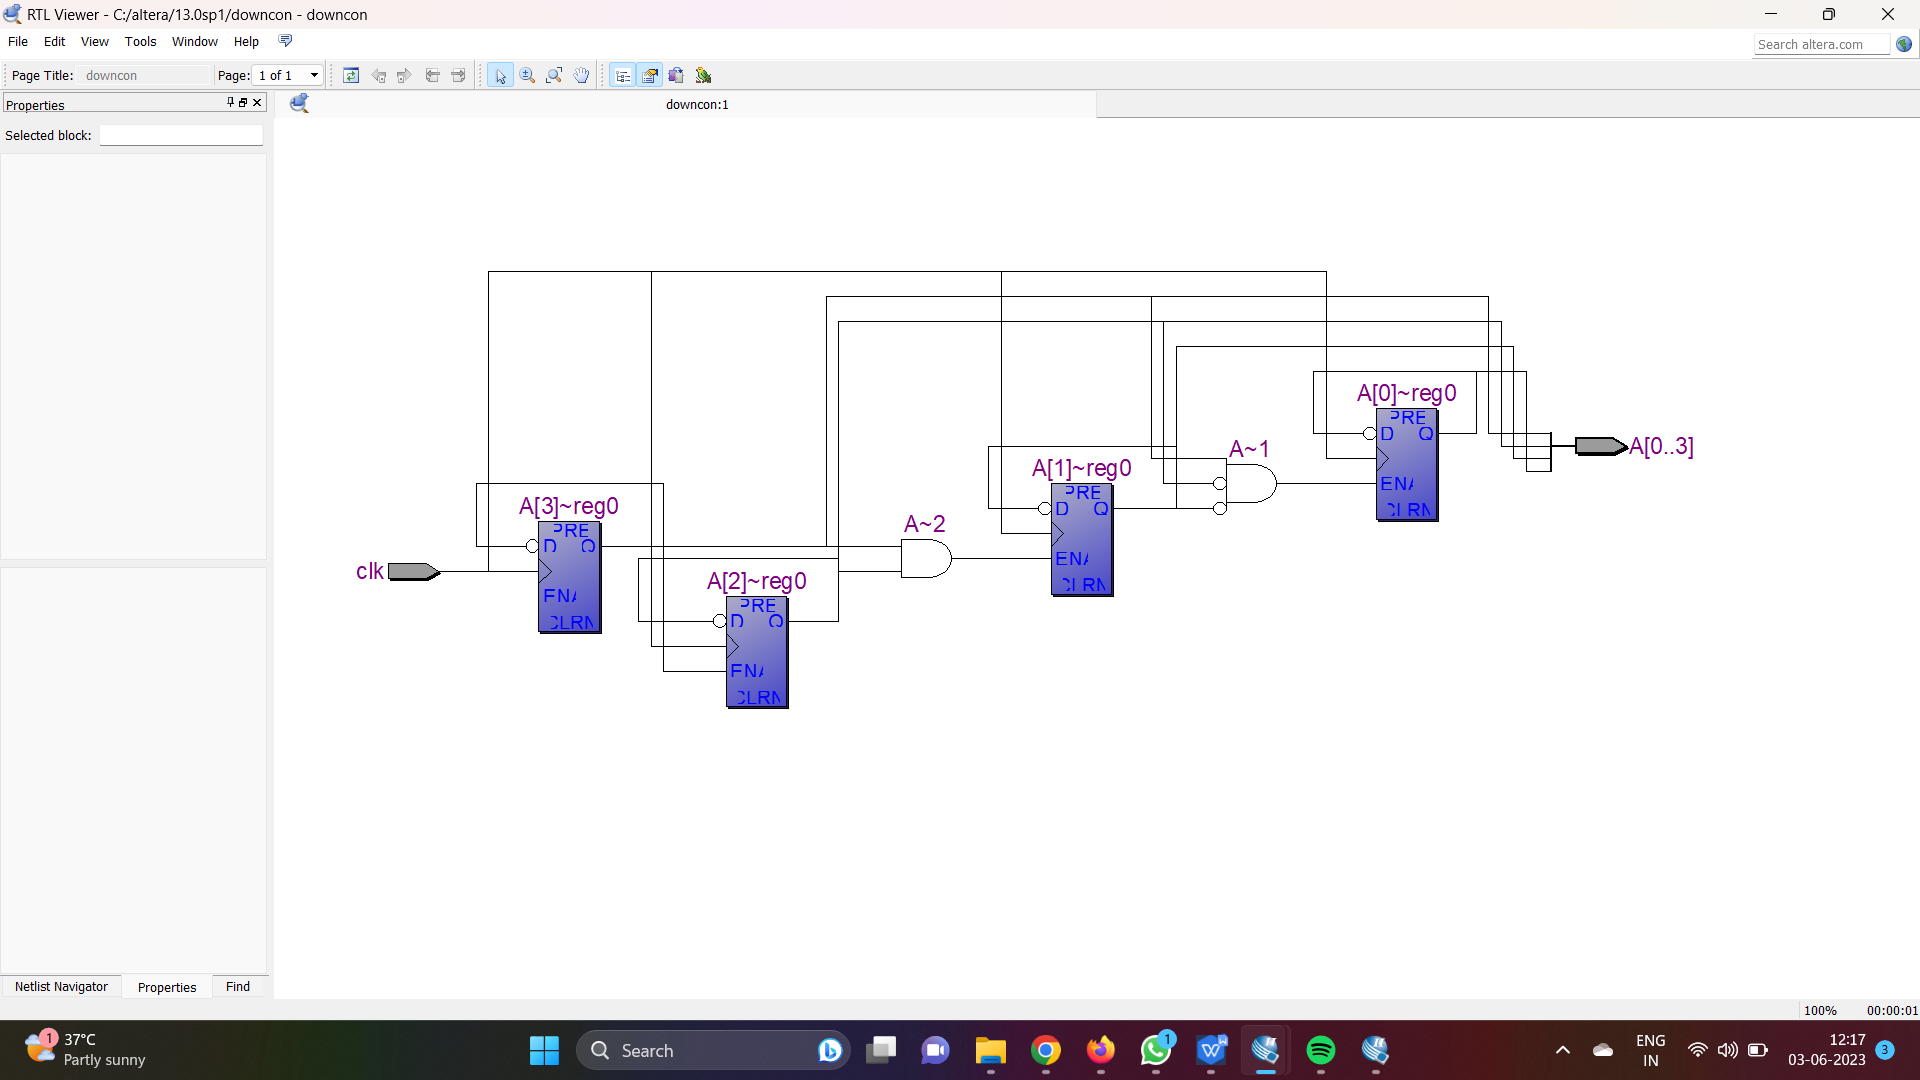
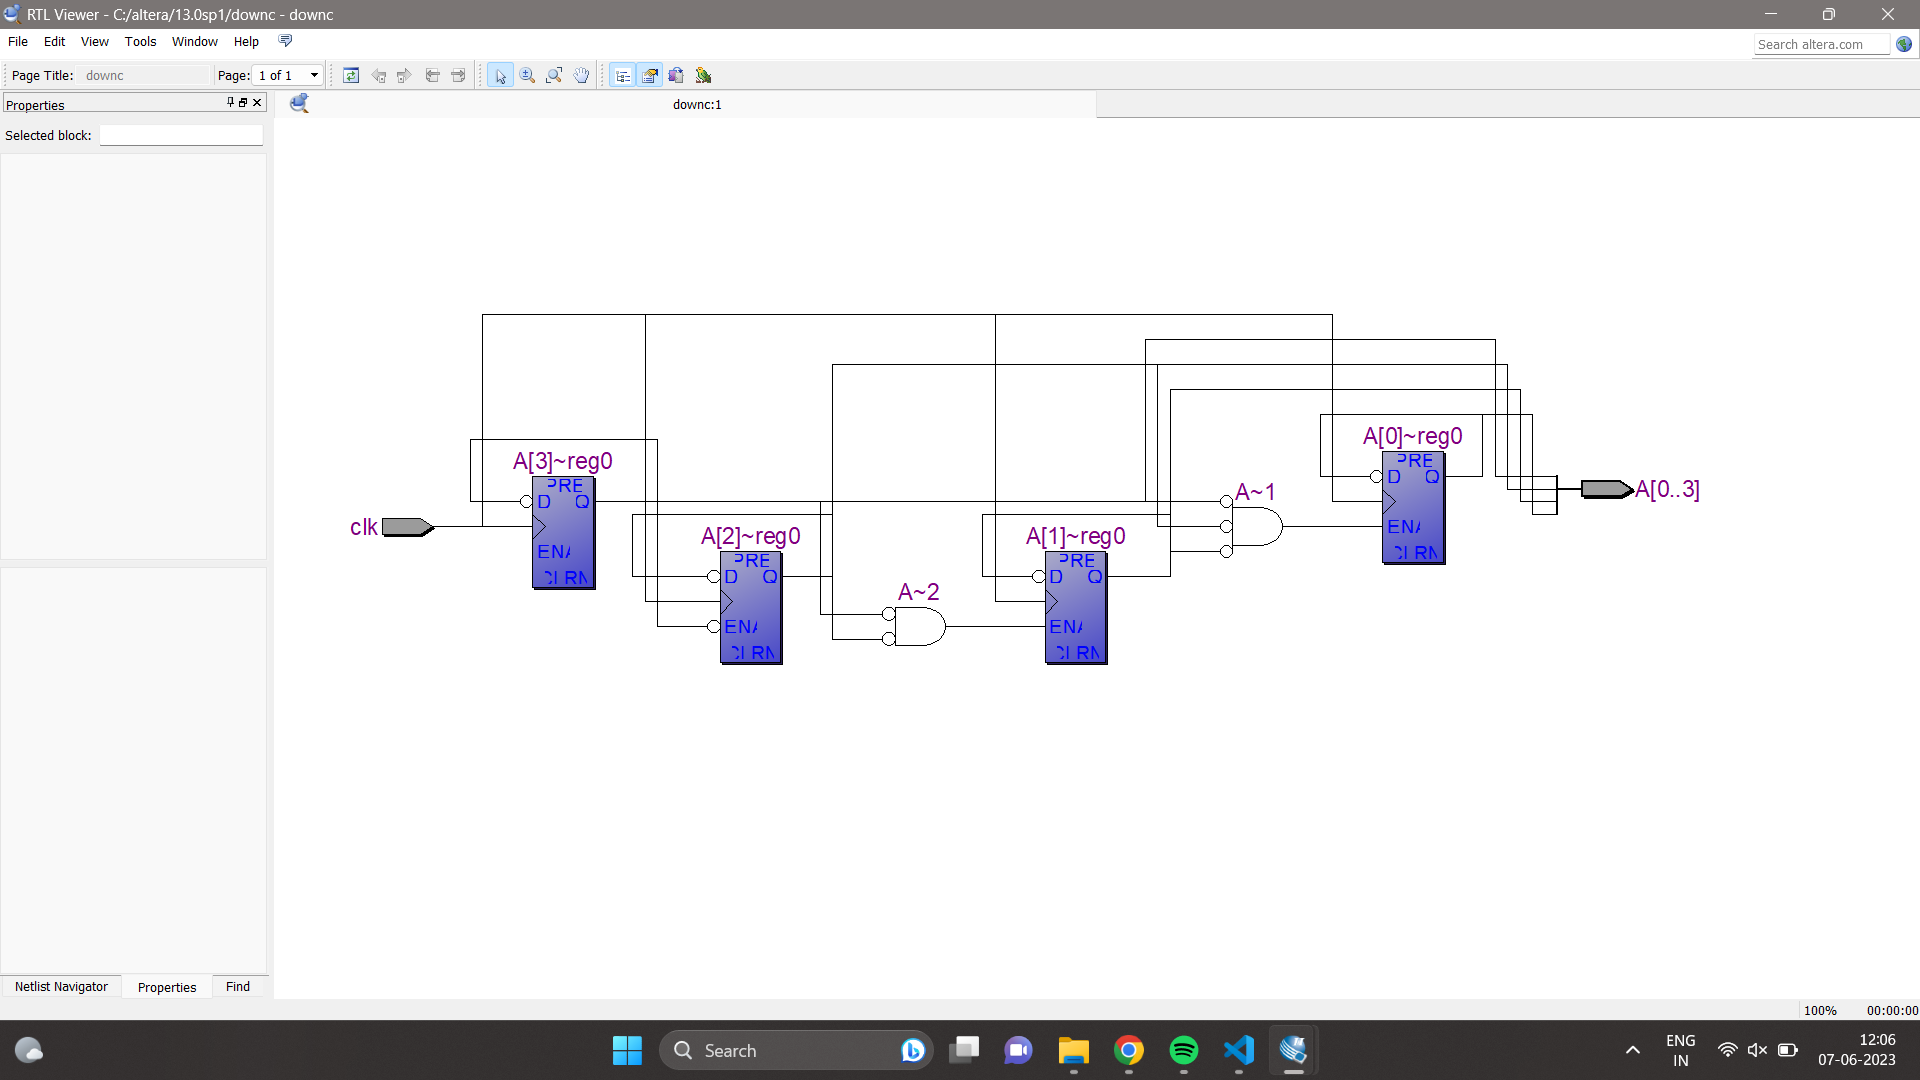
added

diff --git a/README.md b/README.md
@@ -73,14 +73,14 @@ endmodule
 
 DOWNCOUNTER:
 
-module downcon(clk,A);
+module downc(clk,A);
 input clk;
 output reg[0:3]A;
 always@(posedge clk)
 begin
-	A[0]=((((~A[1])&(~A[2]))&A[3])^A[0]);
-	A[1]=(((A[2])&(A[3]))^A[1]);
-	A[2]=((A[3])^A[2]);
+	A[0]=((((~A[1])&(~A[2]))&(~A[3]))^A[0]);
+	A[1]=(((~A[2])&(~A[3]))^A[1]);
+	A[2]=((~A[3])^A[2]);
 	A[3]=1^A[3];
 end
 endmodule
@@ -94,7 +94,7 @@ endmodule
 ## UP COUNTER
 ![exp-7-synchornous-counters-](upconwave.png)
 ## DOWN COUNTER
-![exp-7-synchornous-counters-](downconwave.png)
+![exp-7-synchornous-counters-](downwave.png)
 # TRUTH TABLE 
 ## UP COUNTER
 ![exp-7-synchornous-counters-](uptable.png)
